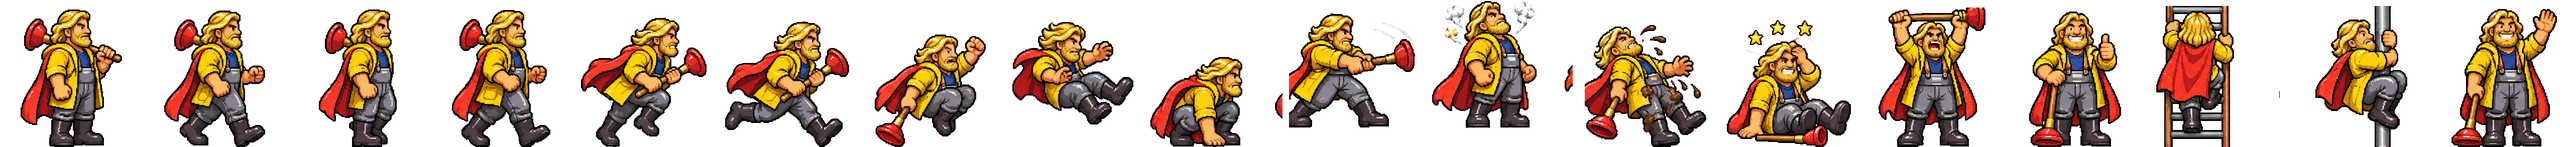
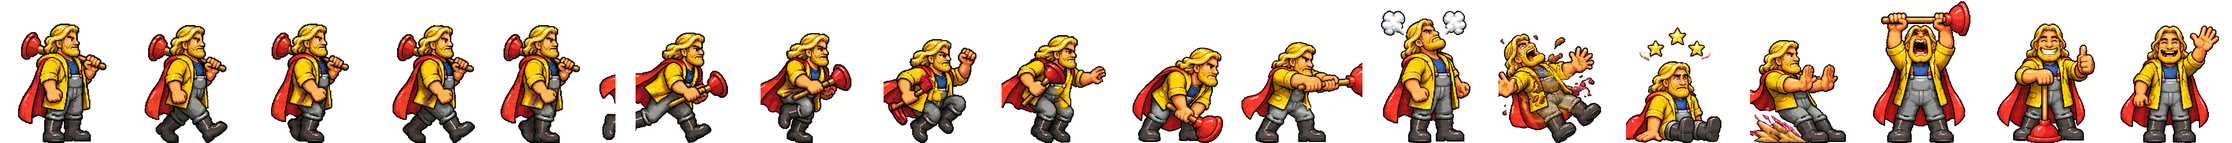
Super Ron: new two-sheet Ron (4-step walk, run, jump, fall, skid, hurt, powered, victory)
Claude-Session: https://claude.ai/code/session_01QR4rFRbYTeq9tRTzXkRUE8

diff --git a/arcade/games.js b/arcade/games.js
@@ -1755,8 +1755,8 @@ GAMES.push({
       if (!(B.inv > 0 && Math.floor(t * 14) % 2)) { if (im) { const h = 62 * sq, w = h * im.width / im.height * (sq < 1 ? 1 / sq : 1); g.save(); g.translate(x, 0); if (B.vx > 0) g.scale(-1, 1); g.drawImage(im, -w / 2, B.y - h, w, h); g.restore(); } else { R(x - 24, B.y - 40 * sq, 48, 40 * sq, '#8a6a2a'); } }
       for (const o of s.globs || []) { if (SI('grease_3')) g.drawImage(SI('grease_3'), o.x - cam - 6, o.y - 4, 12, 7); else C(o.x - cam, o.y, 3, '#d9b04a'); }
       for (let i = 0; i < 3; i++) C(W / 2 - 14 + i * 14, 70, 4, i < B.hp ? '#e9665a' : 'rgba(255,255,255,.25)'); }   // boss health
-    if (!s.won || s.flush < 0.8) srRon(s.p.x - cam, s.p.y, s.p.skid ? -s.p.face : s.p.face, t * (1 + Math.abs(s.p.vx) / 140), Math.abs(s.p.vx) > 10 && s.p.on, s.inv > 0, s.big,
-      s.won ? 13 + Math.floor(t * 2) % 2 : s.inv > 1.2 ? 11 : !s.p.on ? (s.p.vy < 0 ? 6 : 7) : Math.abs(s.p.vx) > 130 ? 4 + Math.floor(t * 10) % 2 : Math.abs(s.p.vx) > 10 ? 1 + Math.floor(t * 9) % 3 : (s.big && Math.floor(t) % 4 === 0 ? 10 : 0));
+    if (!s.won || s.flush < 0.8) srRon(s.p.x - cam, s.p.y, s.p.face, t * (1 + Math.abs(s.p.vx) / 140), Math.abs(s.p.vx) > 10 && s.p.on, s.inv > 0, s.big,
+      s.won ? (s.flush < 1.4 ? 15 : 16) : s.inv > 1.2 ? 12 : !s.p.on ? (s.p.vy < 0 ? 7 : 8) : s.p.skid ? 14 : Math.abs(s.p.vx) > 130 ? 5 + Math.floor(t * 10) % 2 : Math.abs(s.p.vx) > 10 ? 1 + Math.floor(t * 9) % 4 : (s.big && Math.floor(t) % 4 === 0 ? 11 : 0));   // 0 idle, 1-4 walk, 5-6 run, 7 jump, 8 fall, 9 crouch, 10 swing, 11 powered, 12 hurt, 13 dazed, 14 skid, 15 victory, 16 thumbs up, 17 wave
     s.texts.forEach(o => T(o.txt, o.x - cam, o.y, '#fff', 6, 'center'));
     g.restore();
     HUD(s, 'SUPER RON', s.time);
